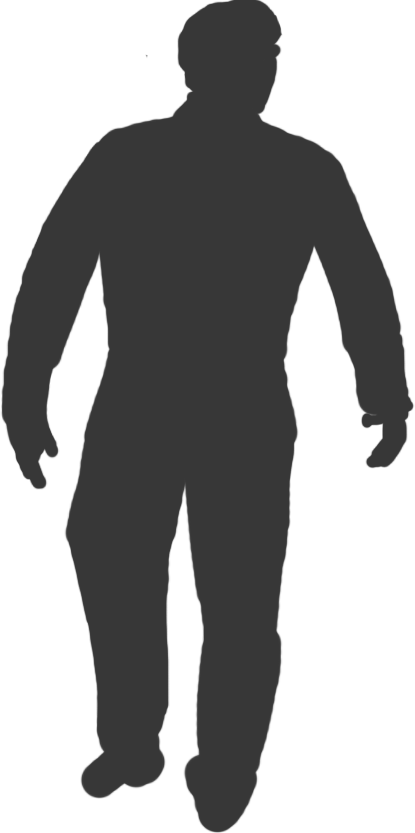
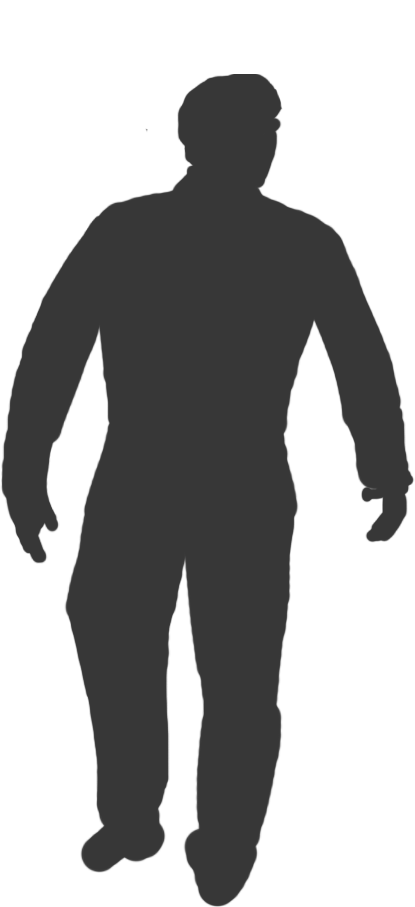
[*] Obstacles spawning tweak [*] All pederestians have now the same size

diff --git a/Unity/Assets/Scripts/Background.cs b/Unity/Assets/Scripts/Background.cs
@@ -35,7 +35,7 @@ public class Background : MonoBehaviour {
                 newS.transform.parent = s.transform.parent;
                 newS.transform.localPosition += new Vector3(0f, 0f, sectionLength * sections.Count);
                // 
-                if (UnityEngine.Random.Range(0, 100) >= 30)
+                if (UnityEngine.Random.Range(0, 100) >= 10)
                 {
                     SpawnManager.SpawnObstacle(newS.transform);
                 }
